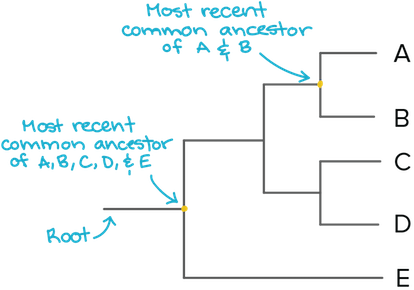
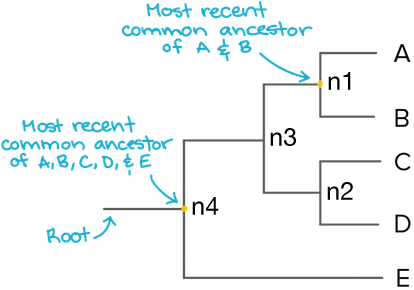
expanded

diff --git a/doc/week1/README.md b/doc/week1/README.md
@@ -24,23 +24,23 @@ a journal club where we discuss a relevant publication with each other in brief 
 - Lecture III: HTS applied to the tulip - Henkel
 - Homework: _[Open Science, Open Data, Open Source](https://pfern.github.io/OSODOS/gitbook/)_
 
-### Day 3 - Biodiversity analysis of HTS data
+### Day 3 - Barcoding
 <!-- Krijn Trimbos or Jeremy Miller -->
-- Lecture I: Biodiversity analysis of HTS data (e.g. barcoding)
-- Lecture II: Biodiversity analysis of HTS data (cont.)
+- Lecture I: The barcoding workflow and MSA data
+- Lecture II: Species delimitation
 - Lecture III: [Data science tools: UNIX](w1d3/lecture3.md)
 - Homework: _[Open Science, Open Data, Open Source (cont.)](https://pfern.github.io/OSODOS/gitbook/)_
 
 ### Day 4 - Metabarcoding
 
-- Lecture I: Metabarcoding (e.g. read clustering, BLAST searching, TNRS): CITES checker
+- Lecture I: Metabarcoding (e.g. read clustering, BLAST searching, TNRS, [phylogenetic placement](https://github.com/Pbdas/epa-ng)): CITES checker
 - Lecture II: Automated metabarcoding pipelines: _[DNA WaterScan](http://gieskesstrijbisfonds.nl/projecten/dna-bibliotheek-waterdiertjes/)_ - Van der Hoorn / Beentjes
 - Lecture III: Guest lecture metabarcoding: _[Kinabalu mycorrhizal diversity](http://doi.org/10.1111/nph.14566)_ - Geml
 - Practical: _Hands-on practical [step by step](Metabarcoding.md) data analysis of mycorrhizal diversity_ - Geml
 
 ### Day 5 - Phylogenies and wrap-up
 
-- Lecture I: Phylogenies (e.g. [phylogenetic placement](https://github.com/Pbdas/epa-ng))
-- Lecture II: Phylogenies (e.g. megatrees such as greengenes, silva, tree representation)
+- Lecture I: [Phylogenetic data](w1d5/lecture1.md)
+- Lecture II: [Megatrees](w1d5/lecture2.md) (e.g. algorithms, SQL)
 - Lecture III: Wrap-up Open Science, Open Data, Open Source
 - Journal club: _All students present their selected paper to the class (10 min. + questions)_

diff --git a/doc/week1/w1d5/lecture2.md b/doc/week1/w1d5/lecture2.md
@@ -1,2 +1,104 @@
-Big tree projects
-=================
+Big trees
+=========
+
+Recursion
+---------
+
+A tree is a hierarchical data structure that is often traversed using recursion. For 
+example:
+
+```python
+# Start at the root
+depth_first(root)
+
+# Function definition. This calls
+# itself for every child of the input node
+def depth_first(node):
+	
+	# pre-order
+	print 'PRE: ', node.name
+	
+	# recurse further
+	for child in node.children:
+		depth_first(child)
+	
+	# post-order
+	print 'POST: ', node.name
+
+```
+
+Depth-first traversal
+---------------------
+
+![](phylogeny.png)
+
+A [depth-first](https://en.wikipedia.org/wiki/Depth-first_search) traversal explores as
+deeply as possible before back tracking, and so the  result of the pre- and post-order 
+actions would be (with this [script](recursion.pl) and this [input file](tree.nex)):
+
+```
+$ perl recursion.pl 
+PRE: n4
+PRE: n3
+PRE: n1
+PRE: A
+PRE: B
+POST: B
+POST: A
+PRE: n2
+PRE: C
+PRE: D
+POST: D
+POST: C
+POST: n2
+POST: n1
+PRE: E
+POST: E
+POST: n3
+POST: n4
+```
+
+Breadth-first traversal
+-----------------------
+
+![](phylogeny.png)
+
+A breadth-first algorithm:
+
+```python
+def breadth_first(node):
+	print 'PRE: ', node.name
+	
+	# first explore siblings recursively
+	if node.sibling:
+		breadth_first(node.sibling)
+	
+	# then move deeper
+	if node.first_child:
+		breadth_first(node.first_child)
+	
+	print 'POST: ', node.name
+```
+
+Would produce the following:
+
+```
+PRE: n4
+PRE: n3
+PRE: E
+POST: E
+PRE: n1
+PRE: n2
+PRE: C
+PRE: D
+POST: D
+POST: C
+POST: n2
+PRE: A
+PRE: B
+POST: B
+POST: A
+POST: n1
+POST: n3
+POST: n4
+```

diff --git a/doc/week1/w1d5/lecture1.md b/doc/week1/w1d5/lecture1.md
@@ -249,3 +249,27 @@ Tabular representations
 - However, more general cases (such as networks) will require a node and an edge table
 - Traversals require recursive queries, although some common queries (e.g. node 
   descendants, ancestors, MRCA) can be implemented with additional, pre-computed indexes
+  
+```js
+// load the external data
+d3.csv("Arachnida.csv", function(error, data) {
+
+	// create a name: node map
+	var dataMap = data.reduce(function(map, node) {
+		map[node.name] = node;
+		return map;
+	}, {});
+
+	// populate the tree structure
+	var root;
+	data.forEach(function(node) {	
+		var parent = dataMap[node.parent];		
+		if ( parent ) {			
+			( parent.children || ( parent.children = [] ) ).push(node);
+		} 
+		else {
+			root = node;
+		}
+	});	
+});
+```
